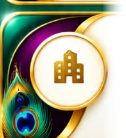
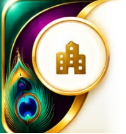
Fix card wing aspect ratio and concentric photo medallion alignment

diff --git a/application/lib/features/family/presentation/screens/family_details_screen.dart b/application/lib/features/family/presentation/screens/family_details_screen.dart
@@ -1170,7 +1170,7 @@ class _FamilyDetailsScreenState extends ConsumerState<FamilyDetailsScreen> {
                         left: 0,
                         top: 0,
                         bottom: 0,
-                        width: 110,
+                        width: 115,
                         child: ClipRRect(
                           borderRadius: const BorderRadius.only(
                             topLeft: Radius.circular(15.6),
@@ -1186,28 +1186,19 @@ class _FamilyDetailsScreenState extends ConsumerState<FamilyDetailsScreen> {
                       // 2. Medallion Avatar Centered in the Golden Aperture (Photo only)
                       if (hasPhoto)
                         Positioned(
-                          left: 29.5,
-                          top: 28.5,
-                          width: 61,
-                          height: 61,
-                          child: Container(
-                            decoration: BoxDecoration(
-                              shape: BoxShape.circle,
-                              border: Border.all(
-                                color: const Color(0xFFD4AF37),
-                                width: 1.8,
-                              ),
-                            ),
-                            child: ClipOval(
-                              child: Image.network(
-                                f.photoUrl!,
+                          left: 33.8,
+                          top: 22.9,
+                          width: 58,
+                          height: 58,
+                          child: ClipOval(
+                            child: Image.network(
+                              f.photoUrl!,
+                              fit: BoxFit.cover,
+                              errorBuilder: (ctx, err, st) => Image.asset(
+                                isPurple
+                                    ? 'assets/images/wing_card_purple_building.png'
+                                    : 'assets/images/wing_card_teal_perfect.png',
                                 fit: BoxFit.cover,
-                                errorBuilder: (ctx, err, st) => Image.asset(
-                                  isPurple
-                                      ? 'assets/images/wing_card_purple_building.png'
-                                      : 'assets/images/wing_card_teal_perfect.png',
-                                  fit: BoxFit.cover,
-                                ),
                               ),
                             ),
                           ),
@@ -1215,7 +1206,7 @@ class _FamilyDetailsScreenState extends ConsumerState<FamilyDetailsScreen> {
 
                       // 3. Family Content Column
                       Positioned(
-                        left: 114,
+                        left: 116,
                         top: 8,
                         right: 48,
                         bottom: 8,
